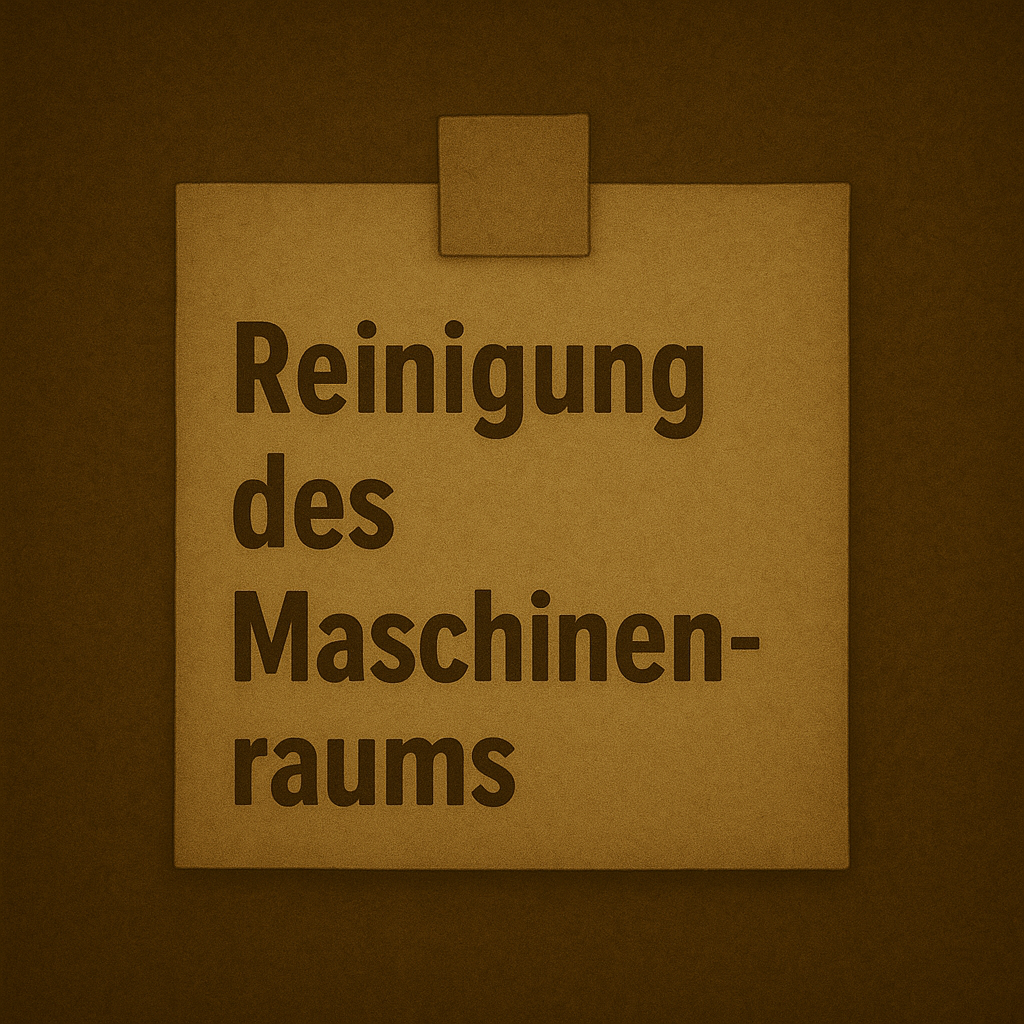
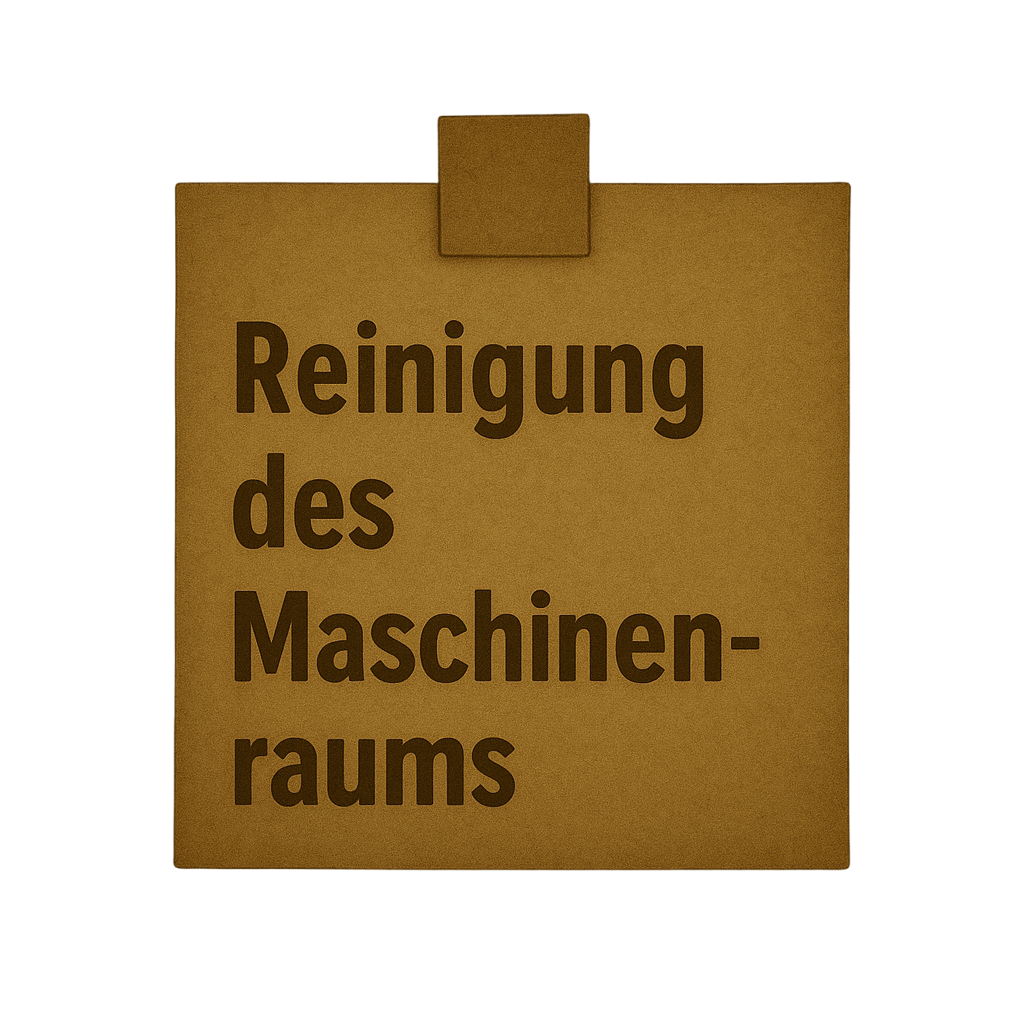
changed image
Note 5 wurde der Hintergrund entfernt

diff --git a/MainGame/resources/overlays/overlay-barometer.html b/MainGame/resources/overlays/overlay-barometer.html
@@ -9,7 +9,7 @@
     </div>
   </div>
 
-  <map name="barometer-map">
+  <map name="barometer-map" style="z-index: 10;">
     <area title="input 1" href="javascript:void(0)" onclick="updateBarometer('1')" coords="439,358,525,449" shape="rect" alt="input 1">
     <area title="input 2" href="javascript:void(0)" onclick="updateBarometer('2')" coords="544,360,637,449" shape="rect" alt="input 2">
     <area title="input 3" href="javascript:void(0)" onclick="updateBarometer('3')" coords="654,359,746,448" shape="rect" alt="input 3">

diff --git a/MainGame/resources/js/barometer.js b/MainGame/resources/js/barometer.js
@@ -2,6 +2,6 @@ let barometer1;
 let barometer2;
 let barometer3;
 
-function getBarometer(key){
+function updateBarometer(key){
     console.log(key);
 }
